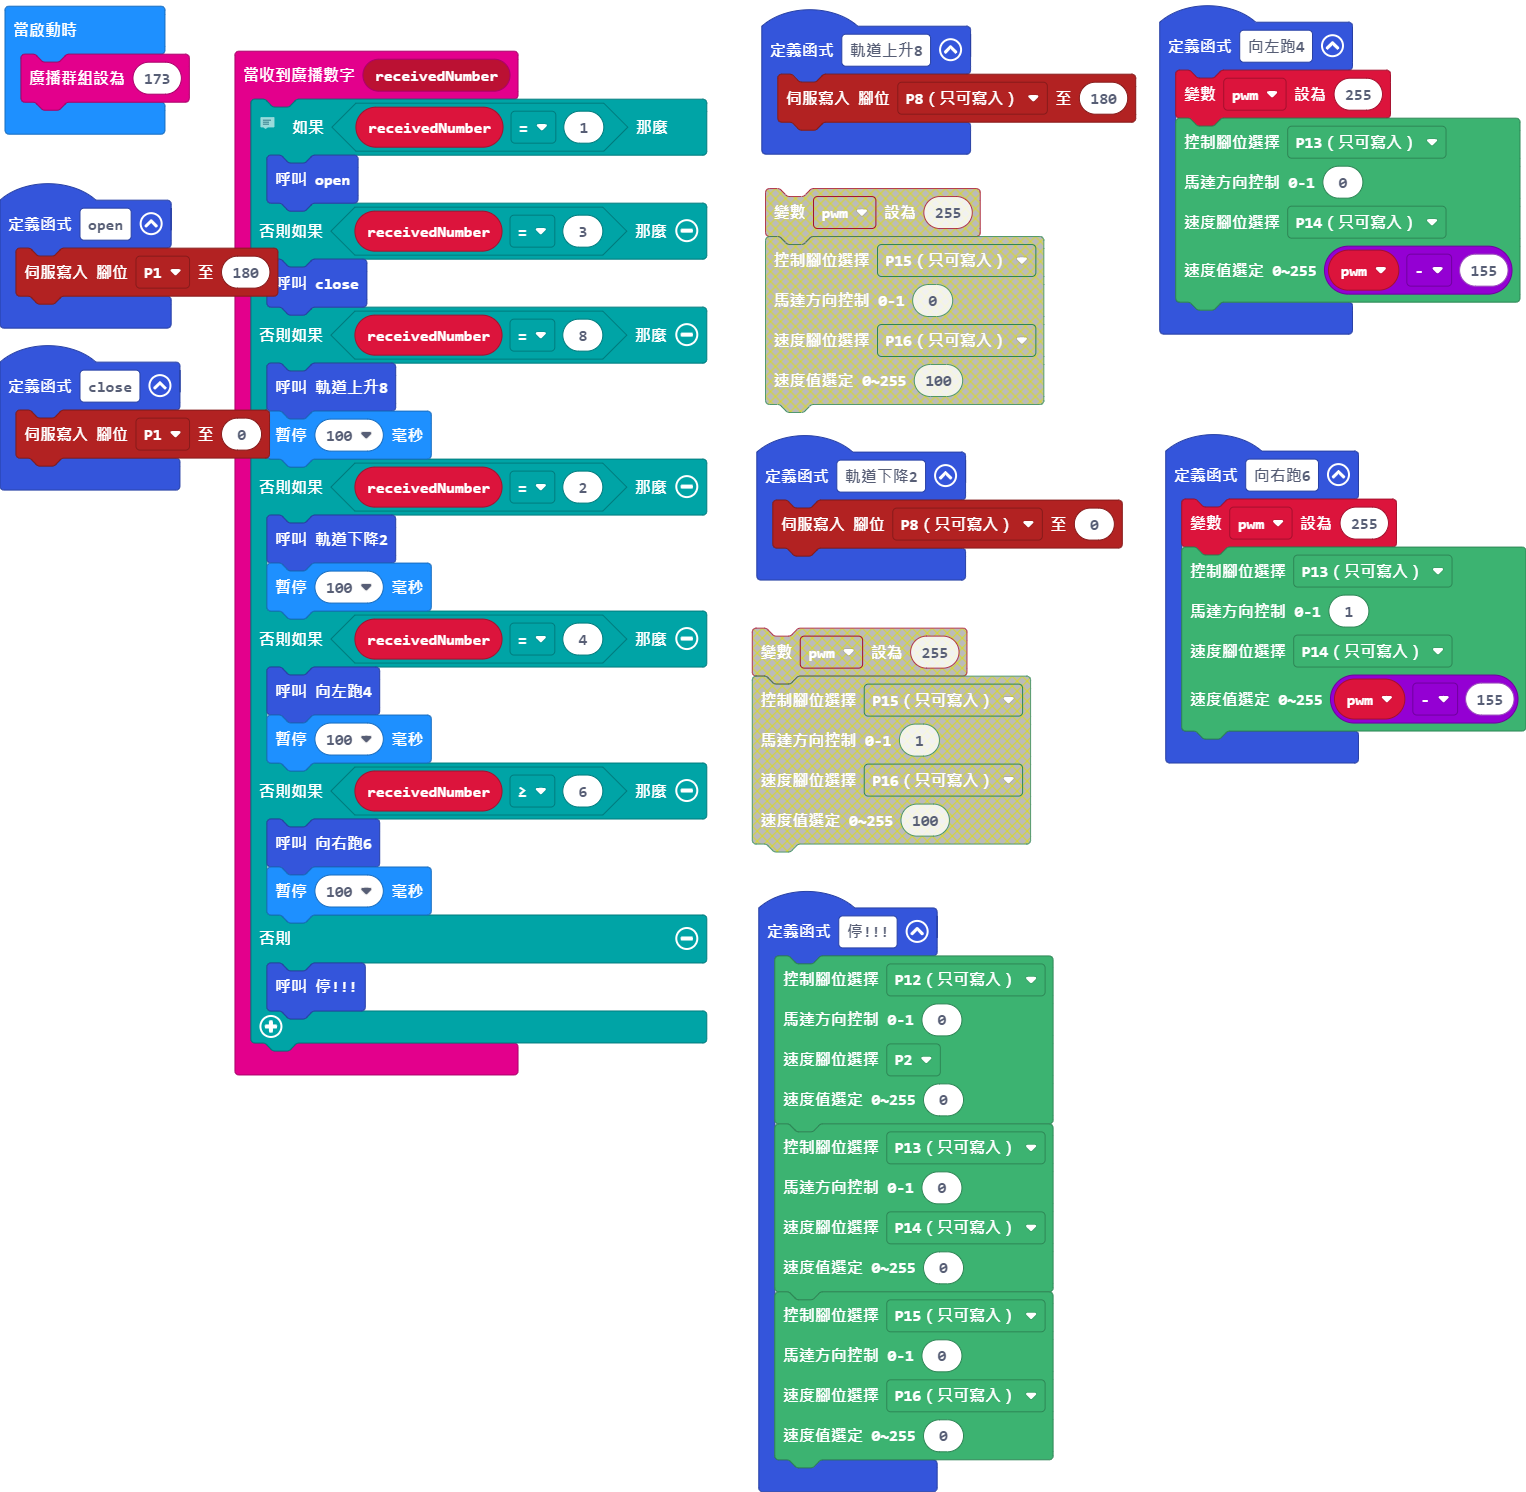
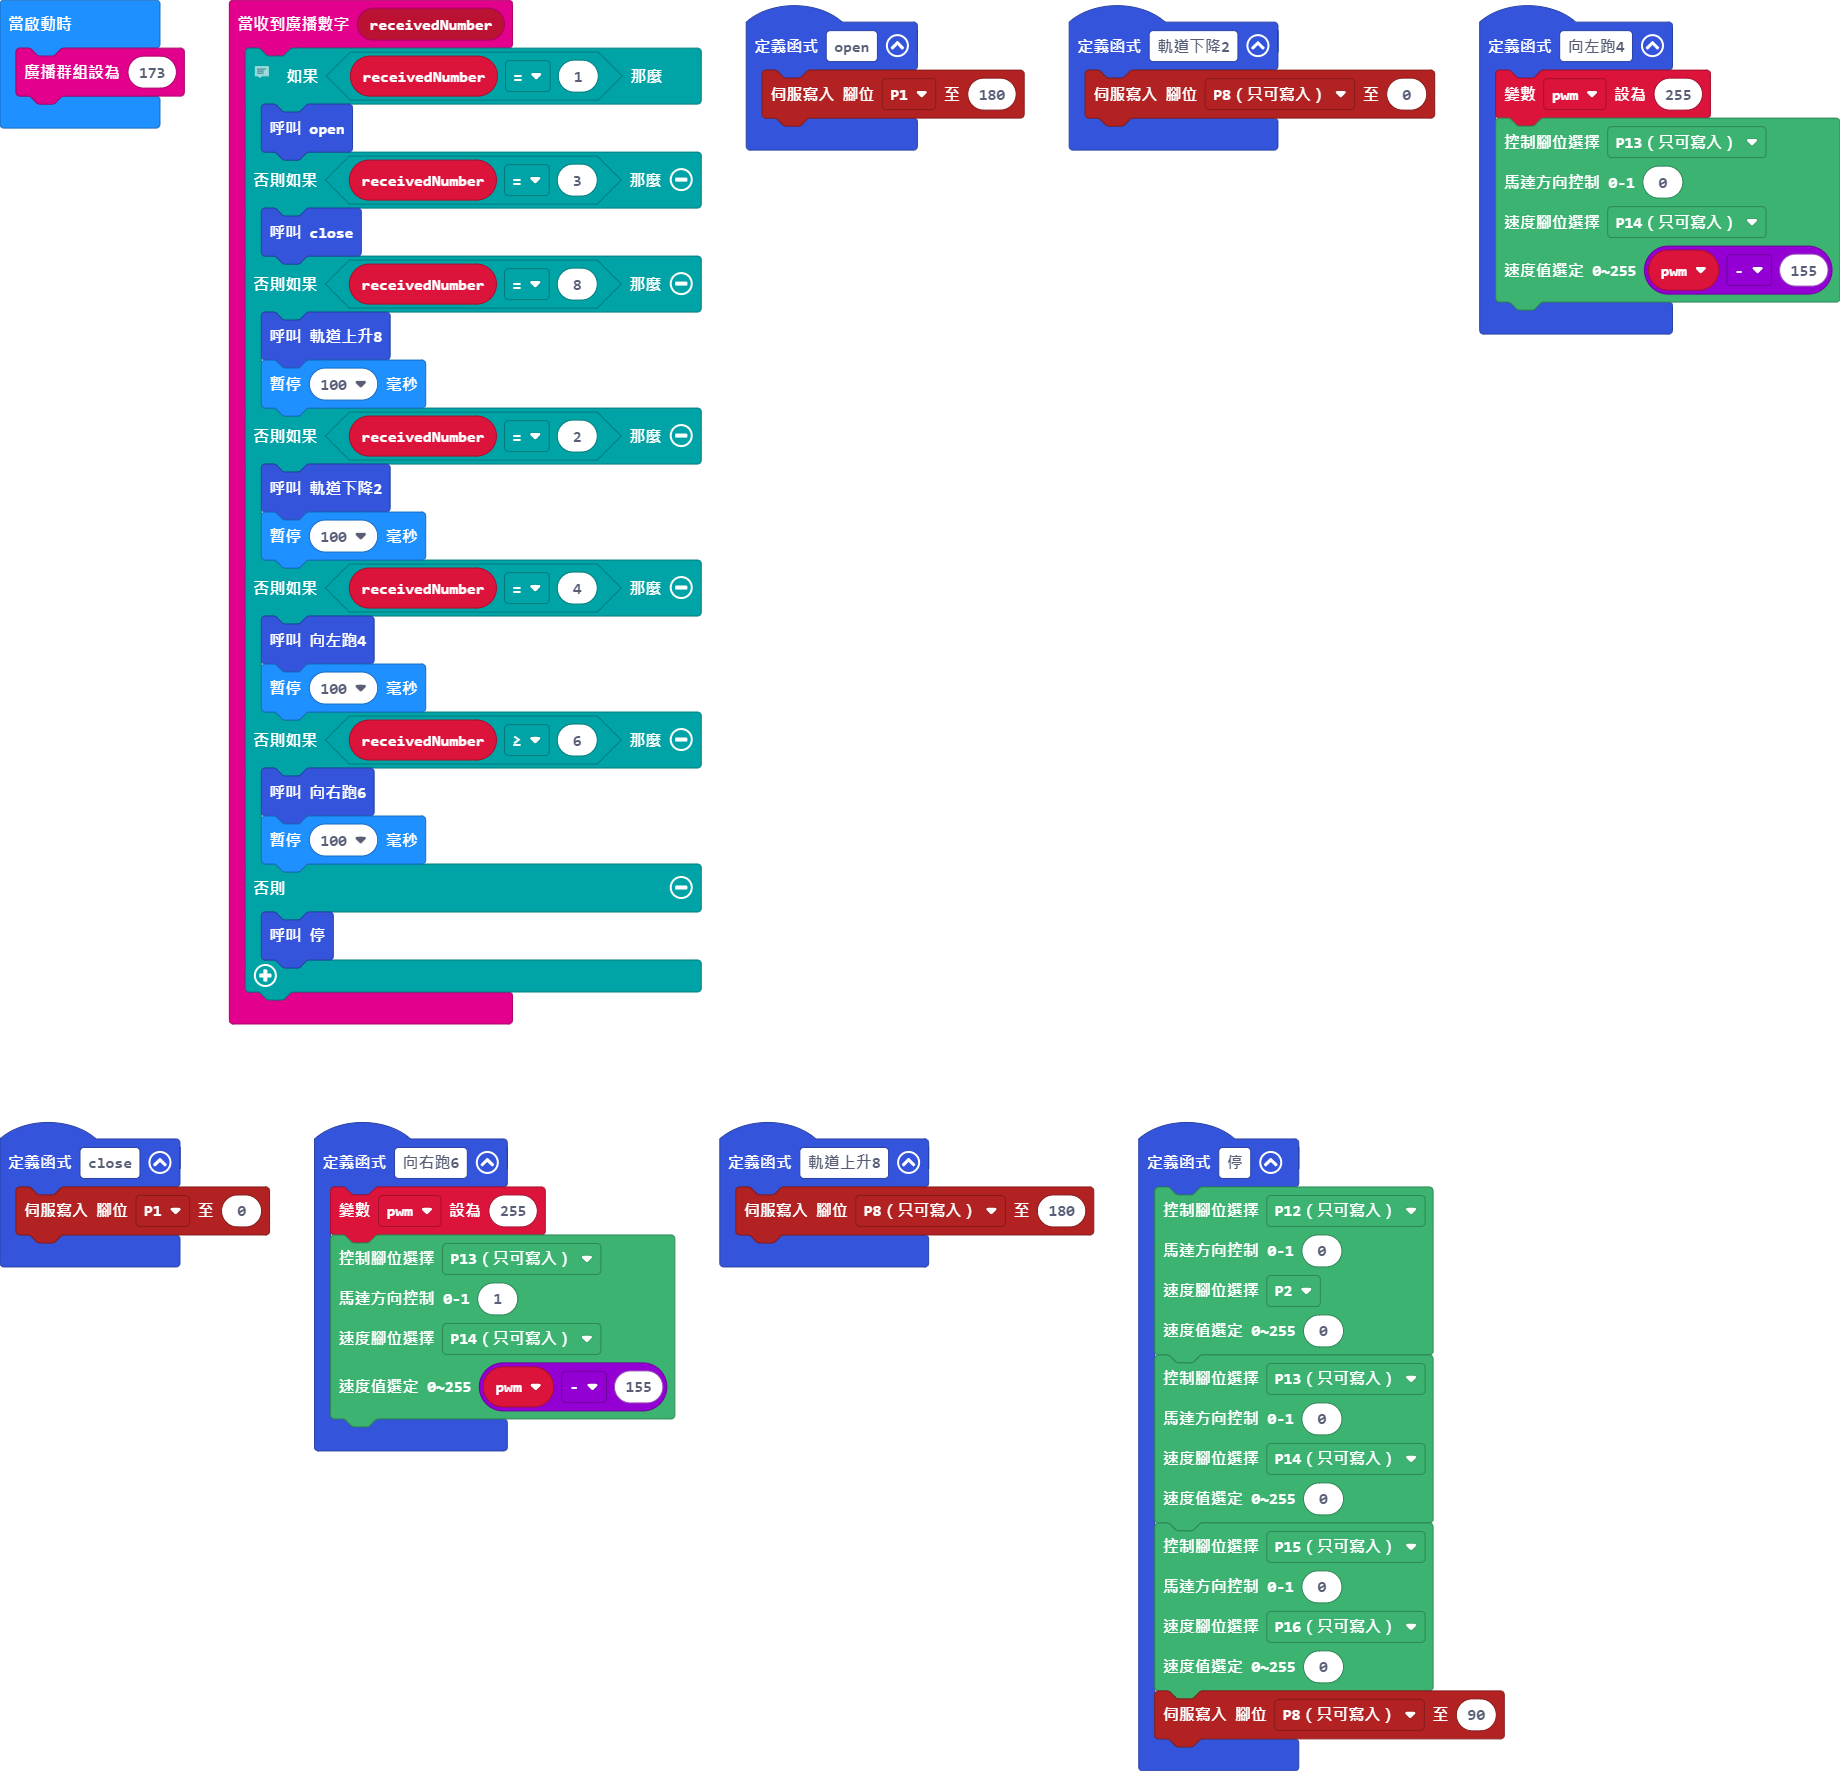
Change motor control

diff --git a/main.ts b/main.ts
@@ -76,6 +76,7 @@ function 停 () {
     AnalogPin.P16,
     0
     )
+    pins.servoWritePin(AnalogPin.P8, 90)
 }
 let pwm = 0
 radio.setGroup(173)
